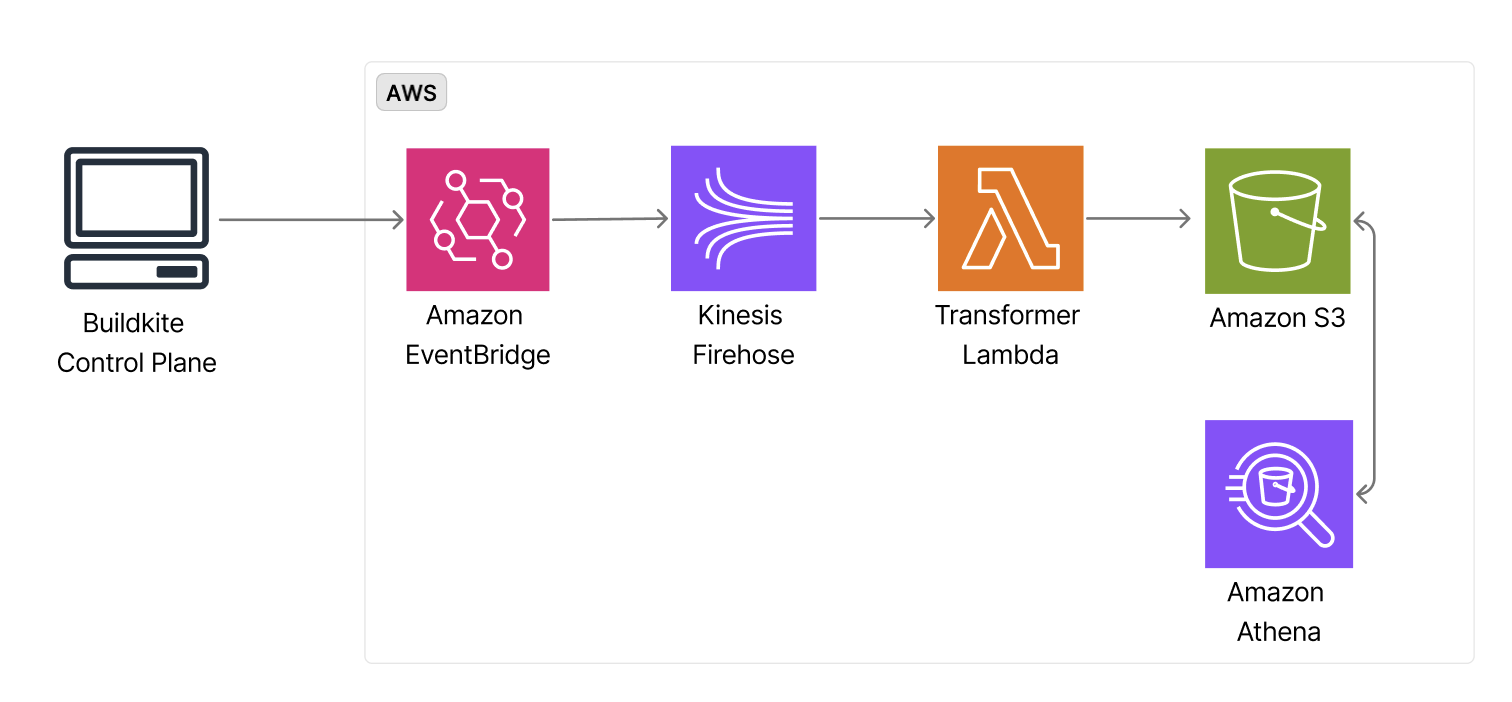
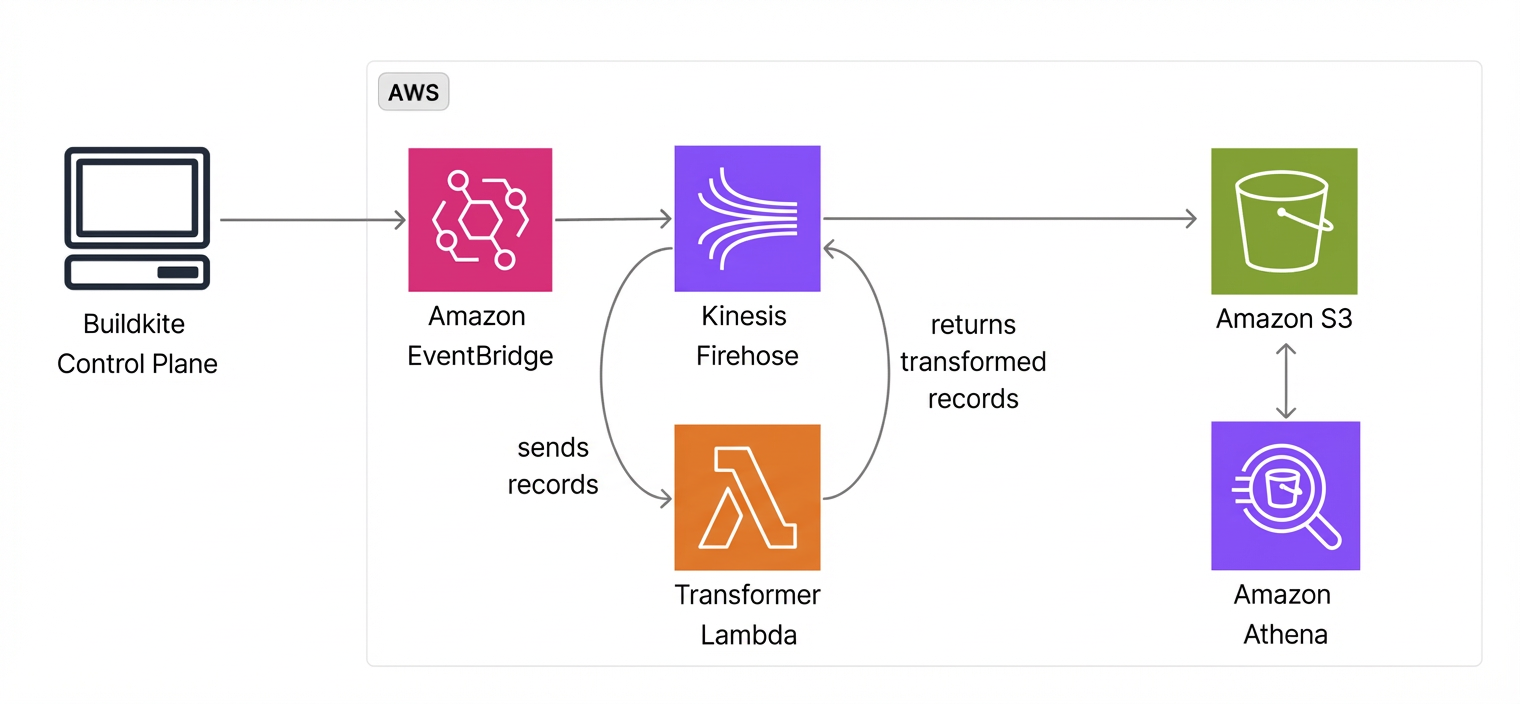
Update image and add more links.

diff --git a/pages/pipelines/tutorials/attributing_aws_agent_costs.md b/pages/pipelines/tutorials/attributing_aws_agent_costs.md
@@ -14,15 +14,15 @@ To complete this tutorial, you need:
 - A Buildkite organization using the [Elastic CI Stack for AWS](/docs/agent/self-hosted/aws/elastic-ci-stack) with EC2 instances.
 - An [Amazon EventBridge](/docs/pipelines/integrations/observability/amazon-eventbridge) notification service configured in your Buildkite organization settings.
 - [Terraform](https://www.terraform.io/) installed locally.
-- An AWS account with permissions to create S3 buckets, Lambda functions, Amazon Data Firehose delivery streams, EventBridge rules, and Glue catalog resources.
+- An AWS account with permissions to create [S3 buckets](https://docs.aws.amazon.com/AmazonS3/latest/userguide/Welcome.html), [Lambda functions](https://docs.aws.amazon.com/lambda/latest/dg/welcome.html), [Amazon Data Firehose delivery streams](https://docs.aws.amazon.com/firehose/latest/dev/what-is-this-service.html), [EventBridge rules](https://docs.aws.amazon.com/eventbridge/latest/userguide/eb-rules.html), and [Glue catalog resources](https://docs.aws.amazon.com/glue/latest/dg/catalog-and-crawler.html).
 
 ## How it works
 
-The pipeline streams Buildkite events from EventBridge to S3 through Amazon Data Firehose, making the raw data available to any analytics backend. If you already use ClickHouse, Redshift, or Snowflake data warehouse tools, you can configure these to access the same S3 bucket.
+The pipeline streams Buildkite events from EventBridge to S3 through Amazon Data Firehose, making the raw data available to any analytics backend. If you already use ClickHouse, Redshift, or Snowflake data warehouse tools, you can configure these tools to access the same S3 bucket.
 
 The data flow is:
 
-1. Buildkite publishes `Job Finished`, `Agent Connected`, and `Agent Disconnected` events to the partner event bus.
+1. Buildkite publishes `Job Finished`, `Agent Connected`, and `Agent Disconnected` [events](/docs/pipelines/integrations/observability/amazon-eventbridge#events) to the [partner event bus](https://docs.aws.amazon.com/eventbridge/latest/userguide/eb-saas.html).
 1. EventBridge rules route matching events to an Amazon Data Firehose delivery stream (indicated by its former name Kinesis Firehose in the following diagram).
 1. Firehose invokes a transformer Lambda function to append newline delimiters for Athena compatibility.
 1. Firehose delivers the transformed records to S3.
